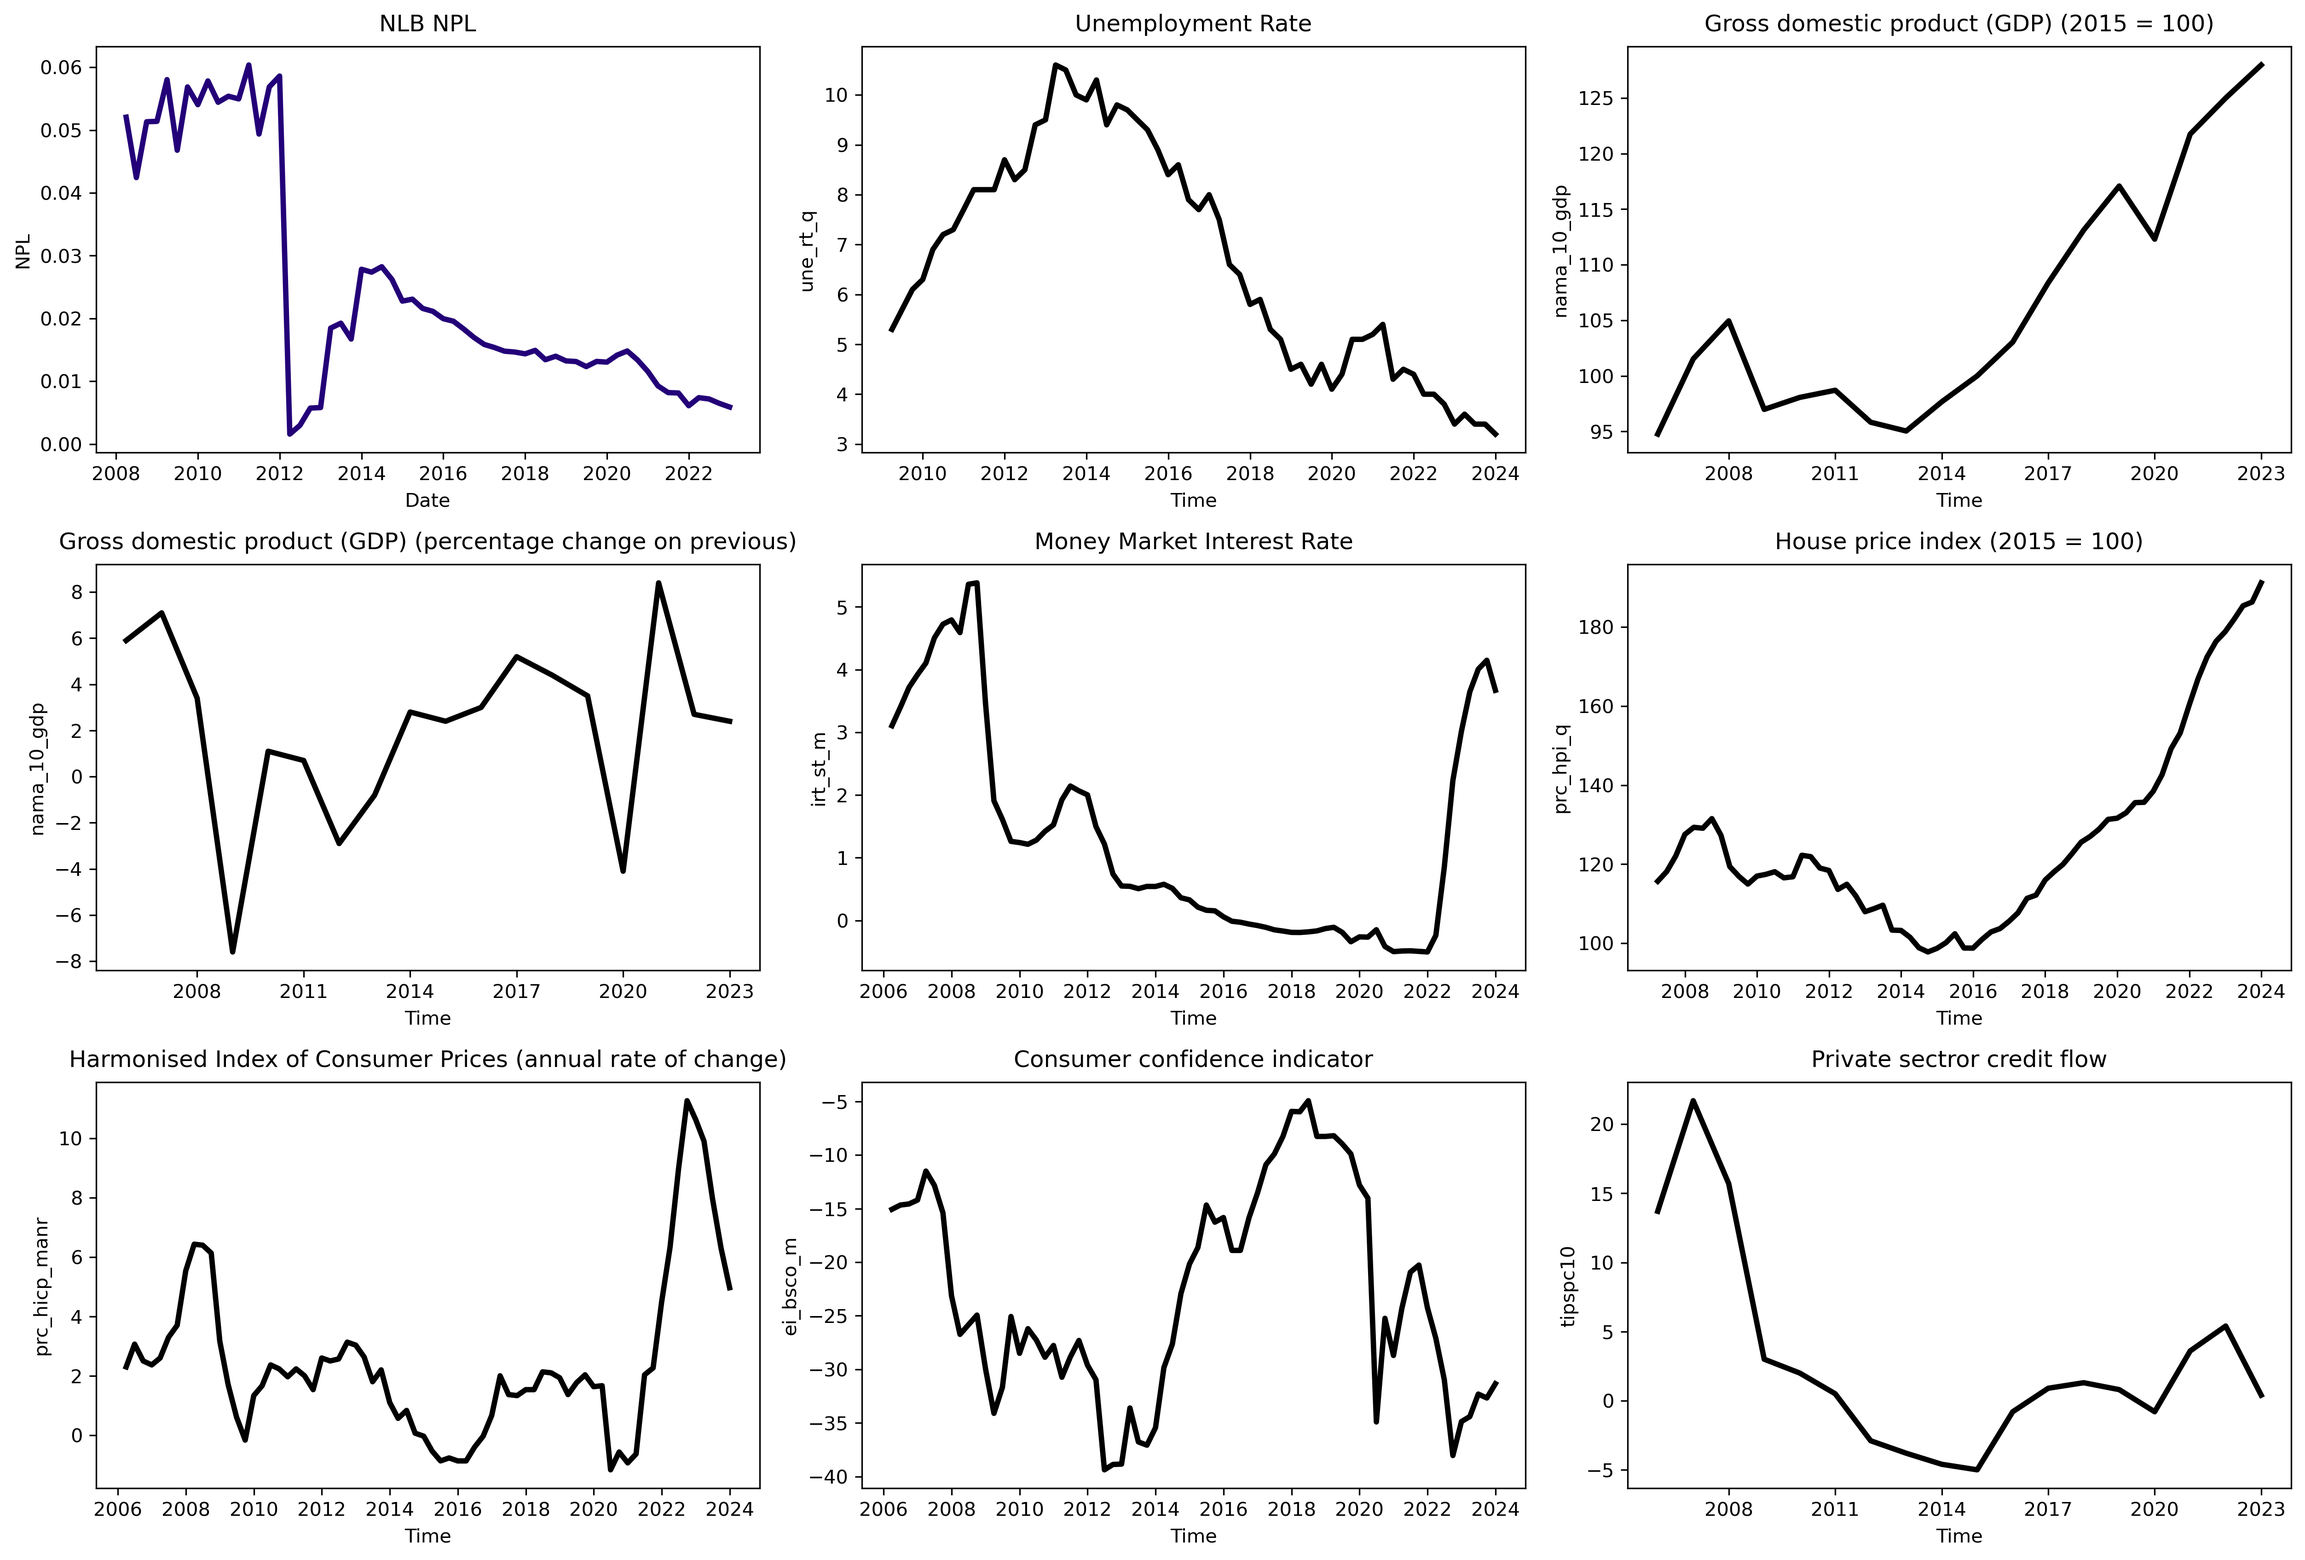
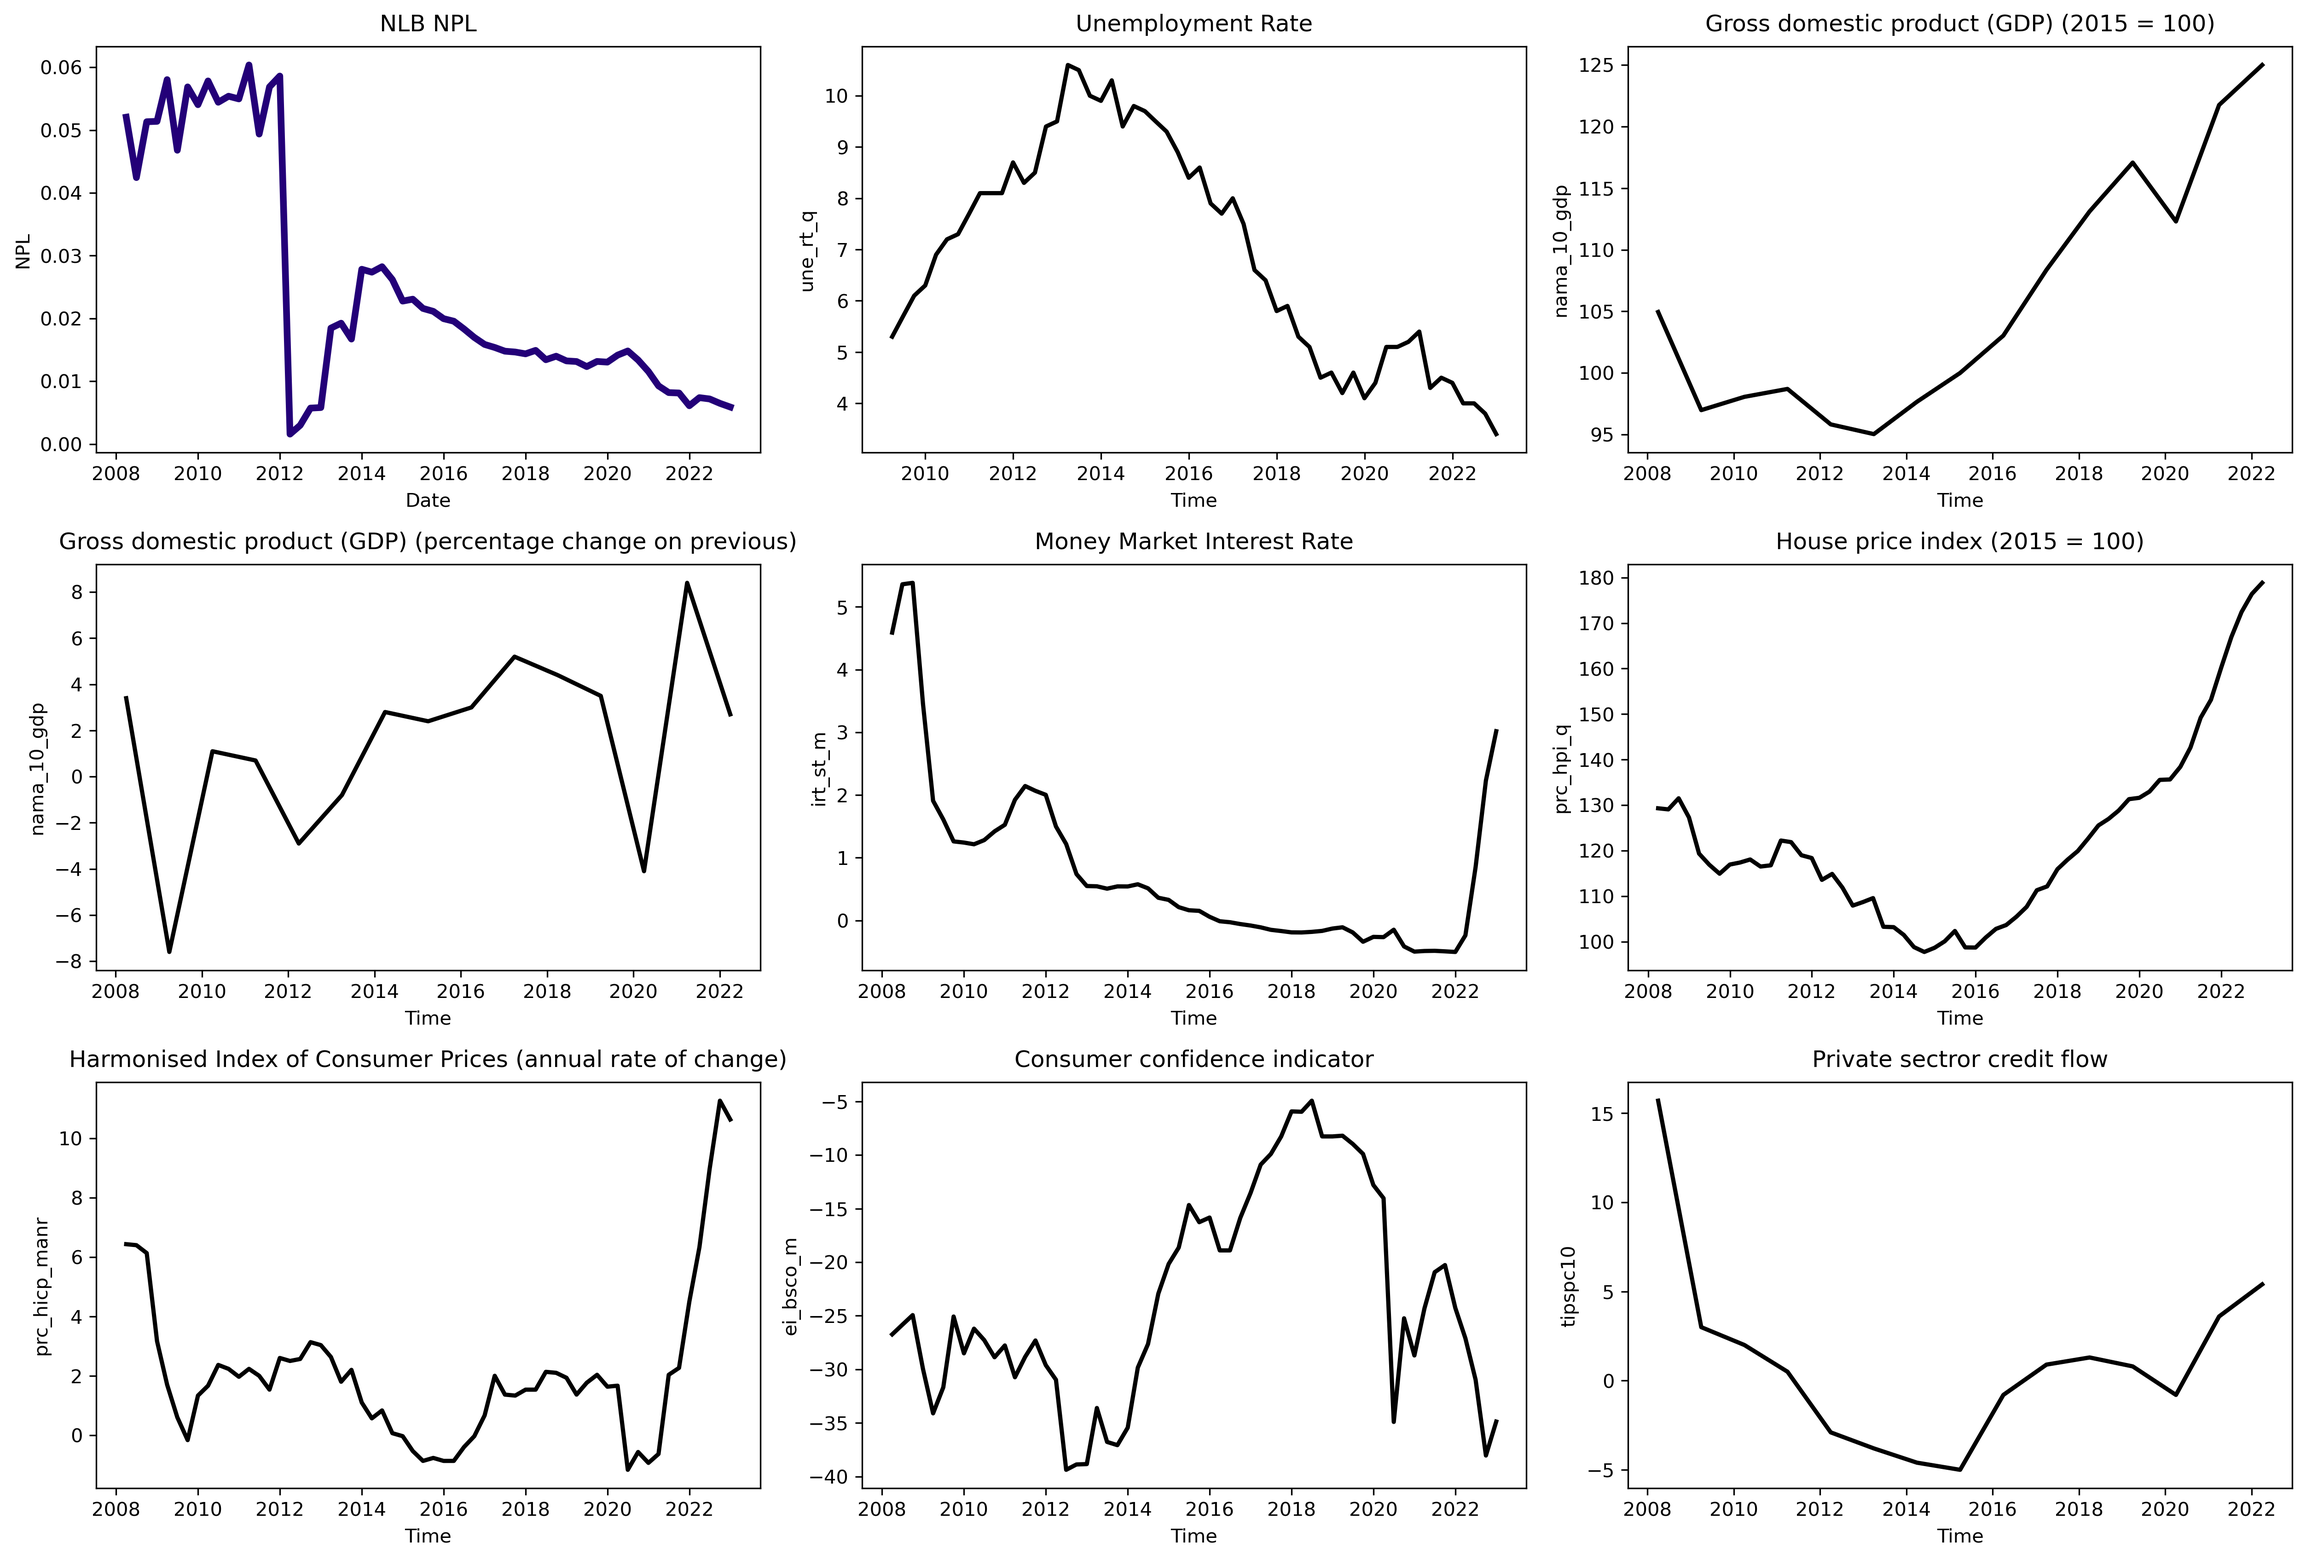
Updated data plotting

diff --git a/TimeSeriesModelling/TimeSeriesModelling_cleaned.py b/TimeSeriesModelling/TimeSeriesModelling_cleaned.py
@@ -207,6 +207,7 @@ def retrieve_eurostat_dataset(dataset_dict):
     time_column_name = 'TIME_PERIOD'        # Name of the time column
     value_column_name = 'OBS_VALUE'         # Name of the value column
     country_column_name = 'Geopolitical entity (reporting)'  # Name of the country col
+    
 
     # Load the CSV file into a DataFrame
     df = pd.read_csv(url)
@@ -733,7 +734,6 @@ def evaluate_linear_model(model, test_data):
 
 
 def _year_locator_for_span(dates, max_ticks=8):
-    """Choose a YearLocator interval so ticks are not too dense."""
     if not len(dates):
         return mdates.YearLocator(), mdates.DateFormatter('%Y')
     dmin, dmax = pd.to_datetime(dates[0]), pd.to_datetime(dates[-1])
@@ -746,81 +746,74 @@ def plot_nlb_and_eurostat_data(
     eurostat_datasets,
     output_path=os.path.join(BASE_DIR, 'data', 'data_plots.png')
 ):
-    """
-    Plots NLB NPL data and each Eurostat dataset as subplots, arranged in a grid,
-    and saves the figure to output_path.
-    """
-    # --- layout ---
     num_plots = 1 + len(eurostat_datasets)
     cols = 3
     rows = (num_plots + cols - 1) // cols
     fig, axes = plt.subplots(rows, cols, figsize=(cols * 5.6, rows * 3.8), squeeze=False)
     axes_flat = axes.ravel()
 
-    # --- first subplot: NLB NPL ---
+    # NLB NPL
     ax = axes_flat[0]
     try:
         idx = pd.to_datetime(data.index.to_list())
     except Exception:
         idx = data.index.to_list()
-
-    ax.plot(idx, data['npl'], linewidth=2.8, color='#230078')
+    ax.plot(idx, data['npl'], linewidth=3.5, color='#230078')
     ax.set_title('NLB NPL', pad=8)
-    ax.set_xlabel('Date')
-    ax.set_ylabel('NPL')
-
+    ax.set_xlabel('Date'); ax.set_ylabel('NPL')
     if hasattr(idx, '__len__') and len(idx) > 1:
         loc, fmt = _year_locator_for_span(idx)
-        ax.xaxis.set_major_locator(loc)
-        ax.xaxis.set_major_formatter(fmt)
+        ax.xaxis.set_major_locator(loc); ax.xaxis.set_major_formatter(fmt)
 
-    # --- Eurostat subplots ---
+    # Eurostat
     plot_i = 1
     for key, dataset in eurostat_datasets.items():
         ax = axes_flat[plot_i]
-        times = dataset['times']
-        values = dataset['values']
+
+        times = pd.Series(dataset['times'])
+        values = pd.Series(dataset['values'])
         ylab = dataset.get('dataset_code', 'Value')
 
-        freq = get_eurostat_time_unit(times[0])  # 'a', 'q', 'm', ...
+        # Extract year from first 4 chars (works for 'YYYY' and 'YYYY-Qx')
+        years = times.astype(str).str[:4].astype(int)
+        mask = (years >= 2008) & (years <= 2022)
+        times_f = times[mask]
+        values_f = values[mask]
 
-        if freq == 'a':                      # annual like 2019
-            x_vals = pd.to_datetime(pd.Series(times).astype(str), format='%Y')
-        elif freq == 'q':                    # quarterly like '2019-Q4'
-            x_vals = pd.PeriodIndex(times, freq='Q').to_timestamp('Q')
-        elif freq == 'm':                    # monthly like '2019-12'
-            x_vals = pd.to_datetime(times, format='%Y-%m')
-        else:
-            x_vals = times  # fallback (could be numeric or already datetime-like)
+        # If nothing remains after filter, show an empty panel with a note
+        if times_f.empty:
+            ax.set_title(f"{key} (no data 2008–2022)", pad=8)
+            ax.set_xlabel('Time'); ax.set_ylabel(ylab)
+            plot_i += 1
+            continue
 
-        ax.plot(x_vals, values, linewidth=2.8, color='black')
+        # Build x-axis dates based on frequency
+        freq = get_eurostat_time_unit(str(times_f.iloc[0]))  # 'a' or 'q'
+        if freq == 'a':
+            x_vals = pd.to_datetime(times_f.astype(str), format='%Y')
+        else:  # 'q'
+            x_vals = pd.PeriodIndex(times_f.astype(str), freq='Q').to_timestamp('Q')
+
+        ax.plot(x_vals, values_f.values, linewidth=2.2, color='black')
         ax.set_title(key, pad=8)
-        ax.set_xlabel('Time')
-        ax.set_ylabel(ylab)
+        ax.set_xlabel('Time'); ax.set_ylabel(ylab)
 
-        # Nice, less-dense ticks
-        if isinstance(x_vals, (pd.Series, pd.DatetimeIndex)) or (
-            hasattr(x_vals, 'dtype') and 'datetime' in str(getattr(x_vals, 'dtype', ''))
-        ):
-            loc, fmt = _year_locator_for_span(x_vals)
-            ax.xaxis.set_major_locator(loc)
-            ax.xaxis.set_major_formatter(fmt)
-        else:
-            # Non-datetime axis: integers only, not too many
-            ax.xaxis.set_major_locator(MaxNLocator(integer=True, nbins=8, prune='both'))
+        # Less-dense integer years
+        loc, fmt = _year_locator_for_span(x_vals)
+        ax.xaxis.set_major_locator(loc)
+        ax.xaxis.set_major_formatter(fmt)
 
         plot_i += 1
         if plot_i >= len(axes_flat):
             break
 
-    # --- hide unused axes ---
+    # Hide unused axes
     for n in range(num_plots, rows * cols):
         fig.delaxes(axes_flat[n])
 
     fig.tight_layout()
     plt.savefig(output_path, dpi=300, bbox_inches='tight')
     plt.show()
-
 
 # Plots the NPL values (actual and predicted) for training and two test splits
 def plot_npl_predictions(data_train, data_test_1, data_test_2, model):
